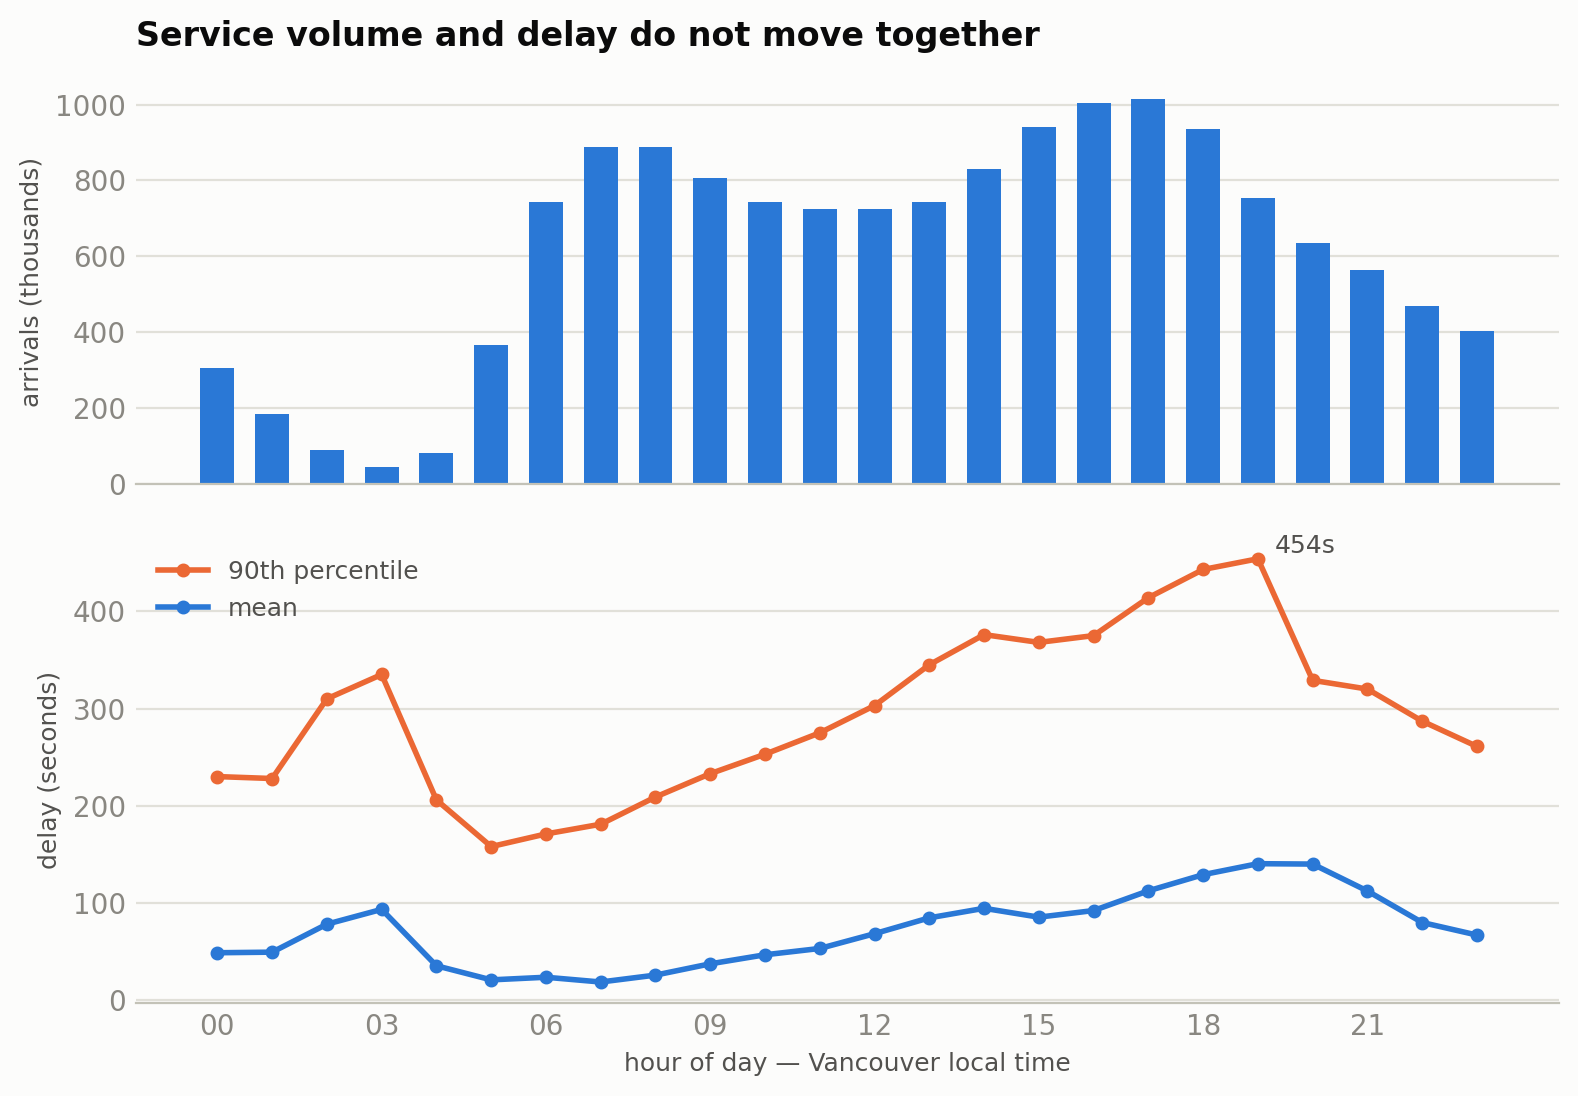
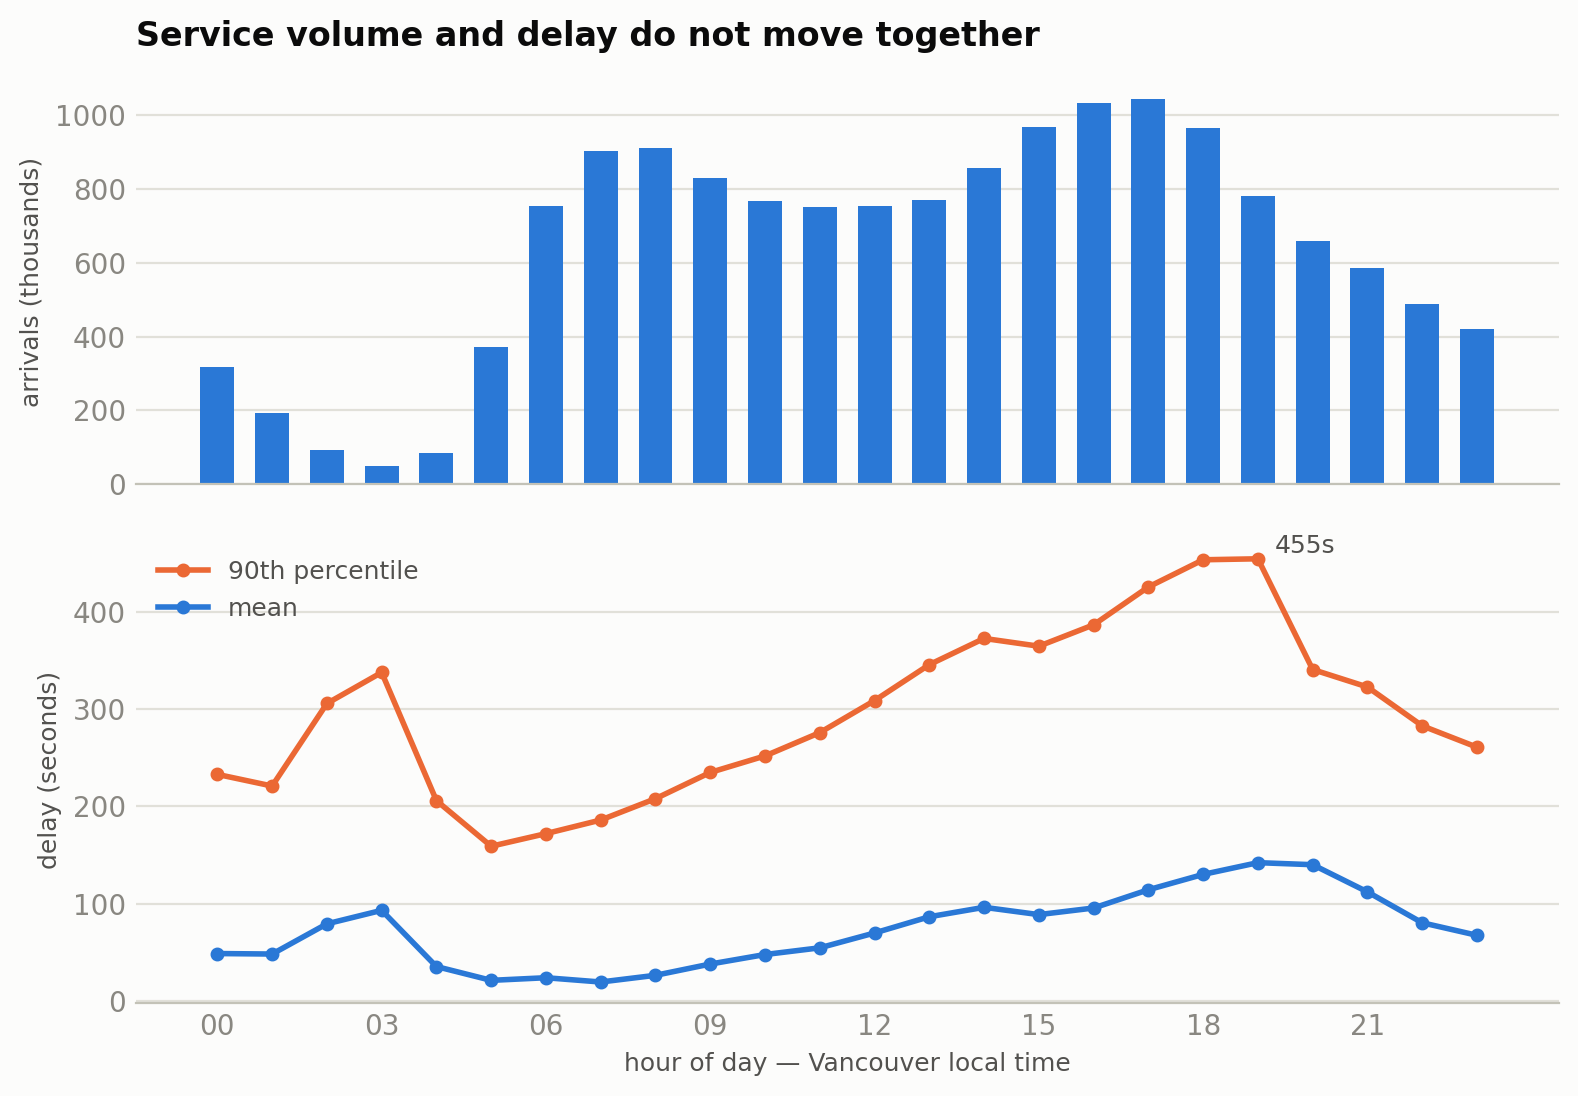
docs: refresh README figures and charts (34155093892)

diff --git a/README.md b/README.md
@@ -11,7 +11,7 @@ its own operations report.
 ## Status
 
 <!-- agent:status:begin -->
-**As of 2026-09-06, the data half is in production and the model half is not.**
+**As of 2026-09-07, the data half is in production and the model half is not.**
 
 | Stage | State |
 |---|---|
@@ -21,9 +21,9 @@ its own operations report.
 | Training, evaluation, model registry | provisioned in Terraform, never run |
 | Inference endpoint, prediction API | infrastructure live, no model behind it |
 
-Nothing is trained yet, so no model has been registered and no endpoint exists. Phase 5 splits train/validation/test by time, which needs 21 distinct service days; **26 are collected** — Phase 5 is unblocked.
+Nothing is trained yet, so no model has been registered and no endpoint exists. Phase 5 splits train/validation/test by time, which needs 21 distinct service days; **27 are collected** — Phase 5 is unblocked.
 
-Gross usage on 2026-09-05 was **$0.82**, a $0.87/day median over the last three days (≈$26/month at that rate).
+Gross usage on 2026-09-06 was **$0.79**, a $0.82/day median over the last three days (≈$25/month at that rate).
 <!-- agent:status:end -->
 
 The MAE figures below are **baselines computed from collected data**, not model
@@ -41,16 +41,16 @@ Collection is deliberately paced rather than rushed. Progress: `make data`.
 ### Baselines, measured
 
 <!-- agent:baselines:begin -->
-Over 14,890,970 labelled stop arrivals, 2026-08-11 to 2026-09-05. Computed over the full 26-day training window. Figures come from `sql/07_profile_queries.sql`.
+Over 15,357,297 labelled stop arrivals, 2026-08-11 to 2026-09-06. Computed over the full 27-day training window. Figures come from `sql/07_profile_queries.sql`.
 
 | Predictor | MAE (seconds) |
 |---|---|
-| Published schedule (predict zero delay) | **154.6** |
-| Persistence (bus stays as late as it currently is) | **134.5** |
+| Published schedule (predict zero delay) | **155.1** |
+| Persistence (bus stays as late as it currently is) | **134.7** |
 | Historical median for route/stop/hour | see `sql/07_profile_queries.sql` query 4 |
 | **XGBoost model** | pending, Phase 6 |
 
-Persistence beats the printed timetable by 13.0%. The registry gate is `mae_ratio_vs_persistence <= 0.92`, so a model must reach **≤ 123.7 seconds** to be registered at all.
+Persistence beats the printed timetable by 13.2%. The registry gate is `mae_ratio_vs_persistence <= 0.92`, so a model must reach **≤ 123.9 seconds** to be registered at all.
 <!-- agent:baselines:end -->
 
 That persistence number is the honest bar. "A bus four minutes late tends to stay
@@ -105,7 +105,7 @@ Decisions and their trade-offs are recorded in `docs/adr/`.
 ## What the data looks like
 
 <!-- agent:dataprofile:begin -->
-15,037,265 stop arrivals over 26 days of collection (2026-08-11 to 2026-09-05), label completeness 0.990.
+15,506,255 stop arrivals over 27 days of collection (2026-08-11 to 2026-09-06), label completeness 0.990.
 <!-- agent:dataprofile:end -->
 
 The charts below are regenerated daily from

diff --git a/reports/2026-09-07-docs-drift.md b/reports/2026-09-07-docs-drift.md
@@ -1,0 +1,29 @@
+# README drift check — 2026-09-07
+
+Claims that appear to contradict live facts. **Not auto-corrected**: a sentence is an argument, and rewriting one should be a decision.
+
+- **certain** — "because a time-based split needs 21 service days and 2 are collected."
+  Service days collected: 27 of 21 (not 2)
+
+- **certain** — "Everything from the SageMaker Pipeline onward is provisioned and waiting for a training window."
+  SageMaker pipelines deployed: 0 (none provisioned)
+
+---
+
+Facts at 2026-09-07 19:19 UTC:
+
+```
+- Service days collected: 27 of 21
+- Stop arrivals in silver: 15,506,255
+- Label completeness: 0.990
+- MAE, published schedule: 155.1s
+- MAE, persistence: 134.7s
+- Persistence beats schedule by: 13.2%
+- SageMaker endpoints deployed: 0
+- Registered model packages: 0
+- SageMaker pipelines: 0
+- Ingestion EventBridge rule enabled: True
+- Last ETL execution: SUCCEEDED
+- Gross usage on 2026-09-06: $0.79
+- 3-day median usage: $0.82/day
+```
